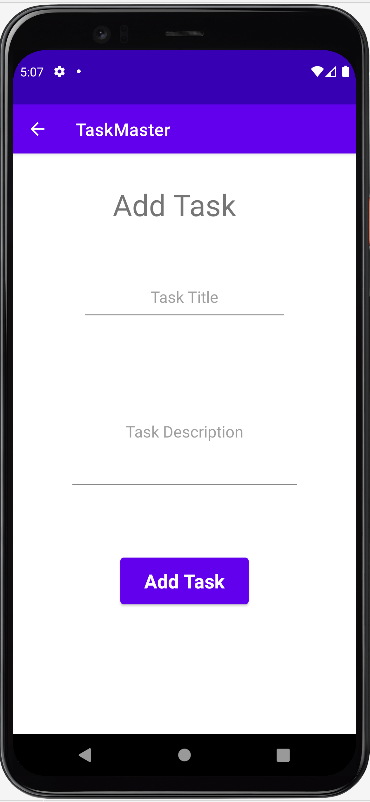
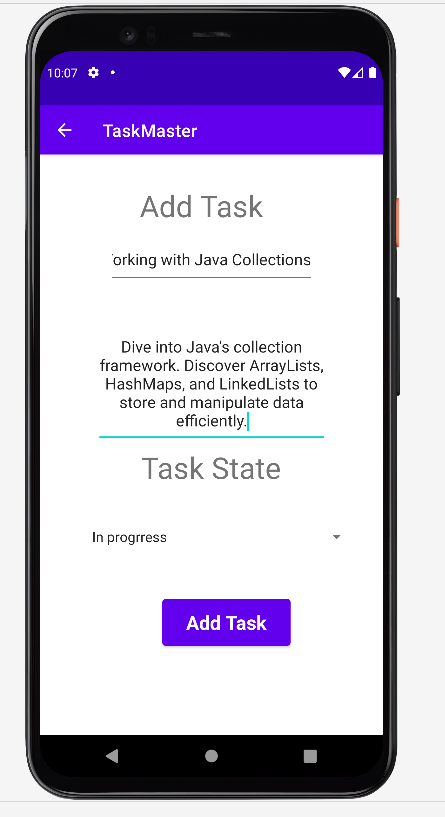
lab 29 Room

Changed region(s): [[0.0, 0.0, 1.0, 1.0], [0.2081, 0.3117, 0.7135, 0.5923], [0.2081, 0.6546, 0.6838, 0.8105]]

diff --git a/app/src/main/java/com/example/taskmaster/activity/MainActivity.java b/app/src/main/java/com/example/taskmaster/activity/MainActivity.java
@@ -7,26 +7,30 @@ import android.preference.PreferenceManager;
 import android.view.View;
 import android.widget.Button;
 import android.widget.ImageButton;
-import android.widget.ImageView;
 import android.widget.TextView;
 
 import androidx.appcompat.app.AppCompatActivity;
 import androidx.recyclerview.widget.LinearLayoutManager;
 import androidx.recyclerview.widget.RecyclerView;
+import androidx.room.Room;
 
 import com.example.taskmaster.R;
 import com.example.taskmaster.adapter.RecyclerItemClickListener;
 import com.example.taskmaster.adapter.TaskAdapter;
+import com.example.taskmaster.database.TaskMasterDatabase;
 import com.example.taskmaster.model.Task;
-import com.example.taskmaster.model.TaskState;
+import com.example.taskmaster.model.TaskStateEnum;
 
 import java.util.ArrayList;
 import java.util.List;
 
 public  class MainActivity extends AppCompatActivity {
     SharedPreferences sp;
-    public static final String TASK_TAG="taskName";
     private List<Task> taskList = new ArrayList<>();
+    public static final String TASK_TAG="taskName";
+    public static final String DATABASE_NAME="task_master";
+    TaskMasterDatabase taskMasterDatabase;
+    TaskAdapter taskAdapter;
 
     @Override
     protected void onCreate(Bundle savedInstanceState) {
@@ -58,16 +62,10 @@ public  class MainActivity extends AppCompatActivity {
         });
 
 
-        taskList.add(new Task("JAVA Tasks", "Task 1 description", TaskState.NEW));
-        taskList.add(new Task("Re design", "Try to make the main activity more appealing", TaskState.ASSIGNED));
-        taskList.add(new Task("Study DSA", "Task 3 description", TaskState.IN_PROGRESS));
-   taskList.add(new Task("do cv ", "Task 4description", TaskState.NEW));
-        taskList.add(new Task("do the presntaion", " Leadership about comunication", TaskState.ASSIGNED));
-        taskList.add(new Task("do the interview ", "Task 3 description", TaskState.IN_PROGRESS));
 
         RecyclerView recyclerView = findViewById(R.id.recyclerView);
         recyclerView.setLayoutManager(new LinearLayoutManager(this));
-        TaskAdapter taskAdapter = new TaskAdapter(taskList);
+        taskAdapter = new TaskAdapter(taskList);
         recyclerView.setAdapter(taskAdapter);
         recyclerView.addOnItemTouchListener(
                 new RecyclerItemClickListener(this, new RecyclerItemClickListener.OnItemClickListener() {
@@ -76,10 +74,21 @@ public  class MainActivity extends AppCompatActivity {
                         Task task = taskList.get(position);
                         Intent detailIntent = new Intent(MainActivity.this, TaskDetailsActivity.class);
                         detailIntent.putExtra(TASK_TAG, task.getTitle());
+                        detailIntent.putExtra("taskDescription", task.getBody());  // Pass description
+                        detailIntent.putExtra("taskState", task.getState().name()); // Pass state
                         startActivity(detailIntent);
                     }
                 })
         );
+
+        taskMasterDatabase= Room.databaseBuilder(
+                getApplicationContext(),
+                TaskMasterDatabase.class,
+                 DATABASE_NAME)
+                .fallbackToDestructiveMigration()
+                .allowMainThreadQueries()
+                .build();
+        taskMasterDatabase.taskDao().findAll();
 
 
 
@@ -93,9 +102,13 @@ public  class MainActivity extends AppCompatActivity {
         super.onResume();
         TextView userTasks;
         userTasks = findViewById(R.id.userTasks);
-        //SharedPreferences sp = getApplicationContext().getSharedPreferences("MyUserPrefs", Context.MODE_PRIVATE);
+
         String name = sp.getString(UserSettingsActivity.USERNAME_TAG, "no name");
         userTasks.setText(name.isEmpty() ? "tasks" : name + "'s tasks ");
+        taskList.clear();
+        taskList.addAll(taskMasterDatabase.taskDao().findAll());
+        taskAdapter.notifyDataSetChanged();
+
     }
 
 }

diff --git a/app/src/main/java/com/example/taskmaster/activity/AddNewTaskActivity.java b/app/src/main/java/com/example/taskmaster/activity/AddNewTaskActivity.java
@@ -1,18 +1,25 @@
 package com.example.taskmaster.activity;
 
 import androidx.appcompat.app.AppCompatActivity;
+import androidx.room.Room;
 
 import android.os.Bundle;
 import android.view.Menu;
 import android.view.MenuItem;
 import android.view.View;
+import android.widget.ArrayAdapter;
 import android.widget.Button;
+import android.widget.EditText;
+import android.widget.Spinner;
 import android.widget.Toast;
 
 import com.example.taskmaster.R;
 import com.example.taskmaster.database.TaskMasterDatabase;
+import com.example.taskmaster.model.Task;
+import com.example.taskmaster.model.TaskStateEnum;
 
 public class AddNewTaskActivity extends AppCompatActivity {
+    TaskMasterDatabase taskMasterDatabase;
 
     @Override
     protected void onCreate(Bundle savedInstanceState) {
@@ -21,20 +28,35 @@ public class AddNewTaskActivity extends AppCompatActivity {
         getSupportActionBar().setDisplayHomeAsUpEnabled(true);
         Toast taskAddedToast =Toast.makeText(this,"Task Added",Toast.LENGTH_SHORT);
 
-        Button addtaskbutton = (Button) findViewById(R.id.addTaskButton);
-        addtaskbutton.setOnClickListener(new View.OnClickListener() {
-            @Override
-            public void onClick(View view) {
-                taskAddedToast.show();
-            }
-        });
 
-//        TaskMasterDatabase =Room.databaseBuilder(
-//                getApplicationContext(),
-//                TaskMasterDatabase.class,
-//                "add_more_tasks")
-//                .allowMainThreadQueries()
-//                .build();
+
+        taskMasterDatabase= Room.databaseBuilder(
+                        getApplicationContext(),
+                        TaskMasterDatabase.class,
+                        "task_master")
+                .fallbackToDestructiveMigration()
+                .allowMainThreadQueries()
+                .build();
+        taskMasterDatabase.taskDao().findAll();
+        Spinner taskStateSpinner=(Spinner) findViewById(R.id.addTaskStateSpinner);
+        taskStateSpinner.setAdapter(new ArrayAdapter<>(
+                this,
+                android.R.layout.simple_spinner_item,
+                TaskStateEnum.values()));
+
+        Button addtaskbutton = (Button) findViewById(R.id.addTaskButton);
+        addtaskbutton.setOnClickListener(view ->{
+            Task newtask =new Task(
+                    (  (EditText)  findViewById(R.id.taskNameEditText)).getText().toString(),
+                    (  (EditText)  findViewById(R.id.taskDescriptionTextView)).getText().toString(),
+                    TaskStateEnum.formString(taskStateSpinner.getSelectedItem().toString())   );
+            taskMasterDatabase.taskDao().insertATask(newtask);
+
+
+            taskAddedToast.show();
+                });
+
+
 
     }
     @Override

diff --git a/app/src/main/java/com/example/taskmaster/activity/TaskDetailsActivity.java b/app/src/main/java/com/example/taskmaster/activity/TaskDetailsActivity.java
@@ -13,6 +13,8 @@ import com.example.taskmaster.R;
 public class TaskDetailsActivity extends AppCompatActivity {
     TextView taskTitle;
     String taskTitleStr;
+    TextView taskDescription;
+    TextView taskState;
 
 
     @Override
@@ -21,14 +23,34 @@ public class TaskDetailsActivity extends AppCompatActivity {
         setContentView(R.layout.activity_task_details);
         getSupportActionBar().setDisplayHomeAsUpEnabled(true);
         Intent callingIntent = getIntent();
-        if (callingIntent != null)
-            taskTitleStr = callingIntent.getStringExtra(MainActivity.TASK_TAG);
+        String taskTitleStr = callingIntent.getStringExtra(MainActivity.TASK_TAG);
+        String taskDescriptionStr = callingIntent.getStringExtra("taskDescription");
+        String taskStateStr = callingIntent.getStringExtra("taskState");
+
         taskTitle = findViewById(R.id.textViewTitle);
-        if ((taskTitleStr != null))
+        taskDescription = findViewById(R.id.textViewDescription);
+        taskState = findViewById(R.id.textViewState);
+
+        if (taskTitleStr != null) {
             taskTitle.setText(taskTitleStr);
-        else
+        } else {
             taskTitle.setText("Not Specified");
+        }
+
+        if (taskDescriptionStr != null) {
+            taskDescription.setText("Description: " + taskDescriptionStr);
+        } else {
+            taskDescription.setText("Description: Not Specified");
+        }
+
+        if (taskStateStr != null) {
+            taskState.setText("State: " + taskStateStr);
+        } else {
+            taskState.setText("State: Not Specified");
+        }
     }
+
+
 
 
     @Override

diff --git a/app/src/main/java/com/example/taskmaster/model/TaskStateEnum.java b/app/src/main/java/com/example/taskmaster/model/TaskStateEnum.java
@@ -1,0 +1,39 @@
+package com.example.taskmaster.model;
+
+import androidx.annotation.NonNull;
+
+public enum TaskStateEnum {
+    NEW("New"),
+    ASSIGNED("Assigned"),
+    IN_PROGRESS("In progrress"),
+    COMPLETE("Cpmplete");
+
+    private final String taskStateText;
+
+    TaskStateEnum(String taskStateText){
+        this.taskStateText=taskStateText;
+    }
+
+    public String getTaskStateText() {
+        return taskStateText;
+    }
+
+    public static TaskStateEnum formString(String possibleTaskStateText){
+        for(TaskStateEnum task :TaskStateEnum.values()){
+            if (task.taskStateText.equals(possibleTaskStateText)){
+                return task;
+            }
+        }
+        return null;
+    }
+    @NonNull
+    @Override
+    public String toString() {
+        if(taskStateText==null)
+            return "";
+
+        return taskStateText ;
+
+    }
+}
+

diff --git a/app/src/main/java/com/example/taskmaster/model/Task.java b/app/src/main/java/com/example/taskmaster/model/Task.java
@@ -1,5 +1,7 @@
 package com.example.taskmaster.model;
+
 import androidx.room.Entity;
+import androidx.room.PrimaryKey;
 
 @Entity
 public class Task {
@@ -7,9 +9,9 @@ public class Task {
     public Long id;
     private String title;
     private String body;
-    private TaskState state;
+    private TaskStateEnum state;
 
-    public Task(String title, String body, TaskState state) {
+    public Task(String title, String body, TaskStateEnum state) {
         this.title = title;
         this.body = body;
         this.state = state;
@@ -31,11 +33,11 @@ public class Task {
         this.body = body;
     }
 
-    public TaskState getState() {
+    public TaskStateEnum getState() {
         return state;
     }
 
-    public void setState(TaskState state) {
+    public void setState(TaskStateEnum state) {
         this.state = state;
     }
 

diff --git a/app/src/main/java/com/example/taskmaster/dao/TaskDao.java b/app/src/main/java/com/example/taskmaster/dao/TaskDao.java
@@ -7,18 +7,18 @@ import com.example.taskmaster.model.Task;
 
 import java.util.List;
 
-@DAO
+@Dao
 public interface  TaskDao {
     @Insert
-    public void insertAProduct(Task task);
+    public void insertATask(Task task);
 
-    @Query("select * from Product")
+    @Query("select * from Task")
     public List<Task> findAll();
 
-    @Query("select * from Product ORDER BY name ASC")
-    public List<Task> findAllSortedByName();
+    @Query("select * from Task ORDER BY title ASC")
+    public List<Task> findAllSortedByTitle();
 
-    @Query("select * from Product where id = :id")
-    Product findByAnId(long id);
+    @Query("select * from Task where id = :id")
+    Task findByAnId(long id);
 }
-}
+

diff --git a/app/src/main/java/com/example/taskmaster/database/TaskMasterDatabase.java b/app/src/main/java/com/example/taskmaster/database/TaskMasterDatabase.java
@@ -6,7 +6,7 @@ import androidx.room.TypeConverters;
 import com.example.taskmaster.dao.TaskDao;
 import com.example.taskmaster.model.Task;
 
-@Database(entities = {Task.class}, version = 2)
-public abstract class TaskMasterDatabase extends Roomdatabase {
+@Database(entities = {Task.class}, version = 1)
+public abstract class TaskMasterDatabase extends RoomDatabase {
 public abstract TaskDao taskDao();
 }

diff --git a/app/src/main/java/com/example/taskmaster/adapter/TaskAdapter.java b/app/src/main/java/com/example/taskmaster/adapter/TaskAdapter.java
@@ -32,8 +32,7 @@ import java.util.List;
         public void onBindViewHolder(@NonNull TaskViewHolder holder, int position) {
             Task task = taskList.get(position);
             holder.taskTitle.setText(task.getTitle());
-            holder.taskBody.setText(task.getBody());
-            holder.taskState.setText(task.getState().toString());
+
         }
 
         @Override

diff --git a/README.md b/README.md
@@ -3,14 +3,17 @@
 
 | Homepage | All Tasks |
 |:---:|:---:|
-| ![homepage](./screenshots/homelab28.png) | ![alltasks](./screenshots/AllTasks.png) |
+| ![homepage](./screenshots/homelab29.png) | ![alltasks](./screenshots/AllTasks.png) |
 | Add Task | Added Task |
 | ![addtask](./screenshots/AddTask.png) | ![addedtask](./screenshots/TaskAdded.png) |
 | user Settings | username Saved |
 | ![user Settings](./screenshots/userSettings.png) | ![userName Saved](./screenshots/userNameSaved.png) |
 | Select task from Homepage | Task Details |
-| ![Task Selected](./screenshots/TaskSelected.png) | ![Task Details](./screenshots/TaskDetails.png) |
+| ![Task Selected](./screenshots/homelab29.png) | ![Task Details](./screenshots/TaskDetailslab29.png) |
 
+| RoomDbWorking |
+|:---:| 
+| ![Task Selected](./screenshots/RoomDbWorking.png) |
 
 ## description
 Task master mobile application with three pages:
@@ -32,7 +35,8 @@ Task master mobile application with three pages:
 
 5. Task details page:
   - task title based on the clicked task.
-  - lorem task description.
+  - task description.
+  - task state.
 
 ## daily change log
 - Lab27
@@ -44,3 +48,8 @@ Task master mobile application with three pages:
 1. Added a RecyclerView for displaying Task title, the tasks are hardcoded.
 
 2. Created a Task class with attributes: title, body and state. The state is enum of type TaskState, and can be one of: “new”, “assigned”, “in progress”, or “complete”
+
+- Lab29
+1. Set up Room, and modify Task class to be an Entity.
+2. Modify Add Task form to save the data entered in as a Task in local database.
+3. Refactor homepage RecyclerView to display all Task entities from database.
